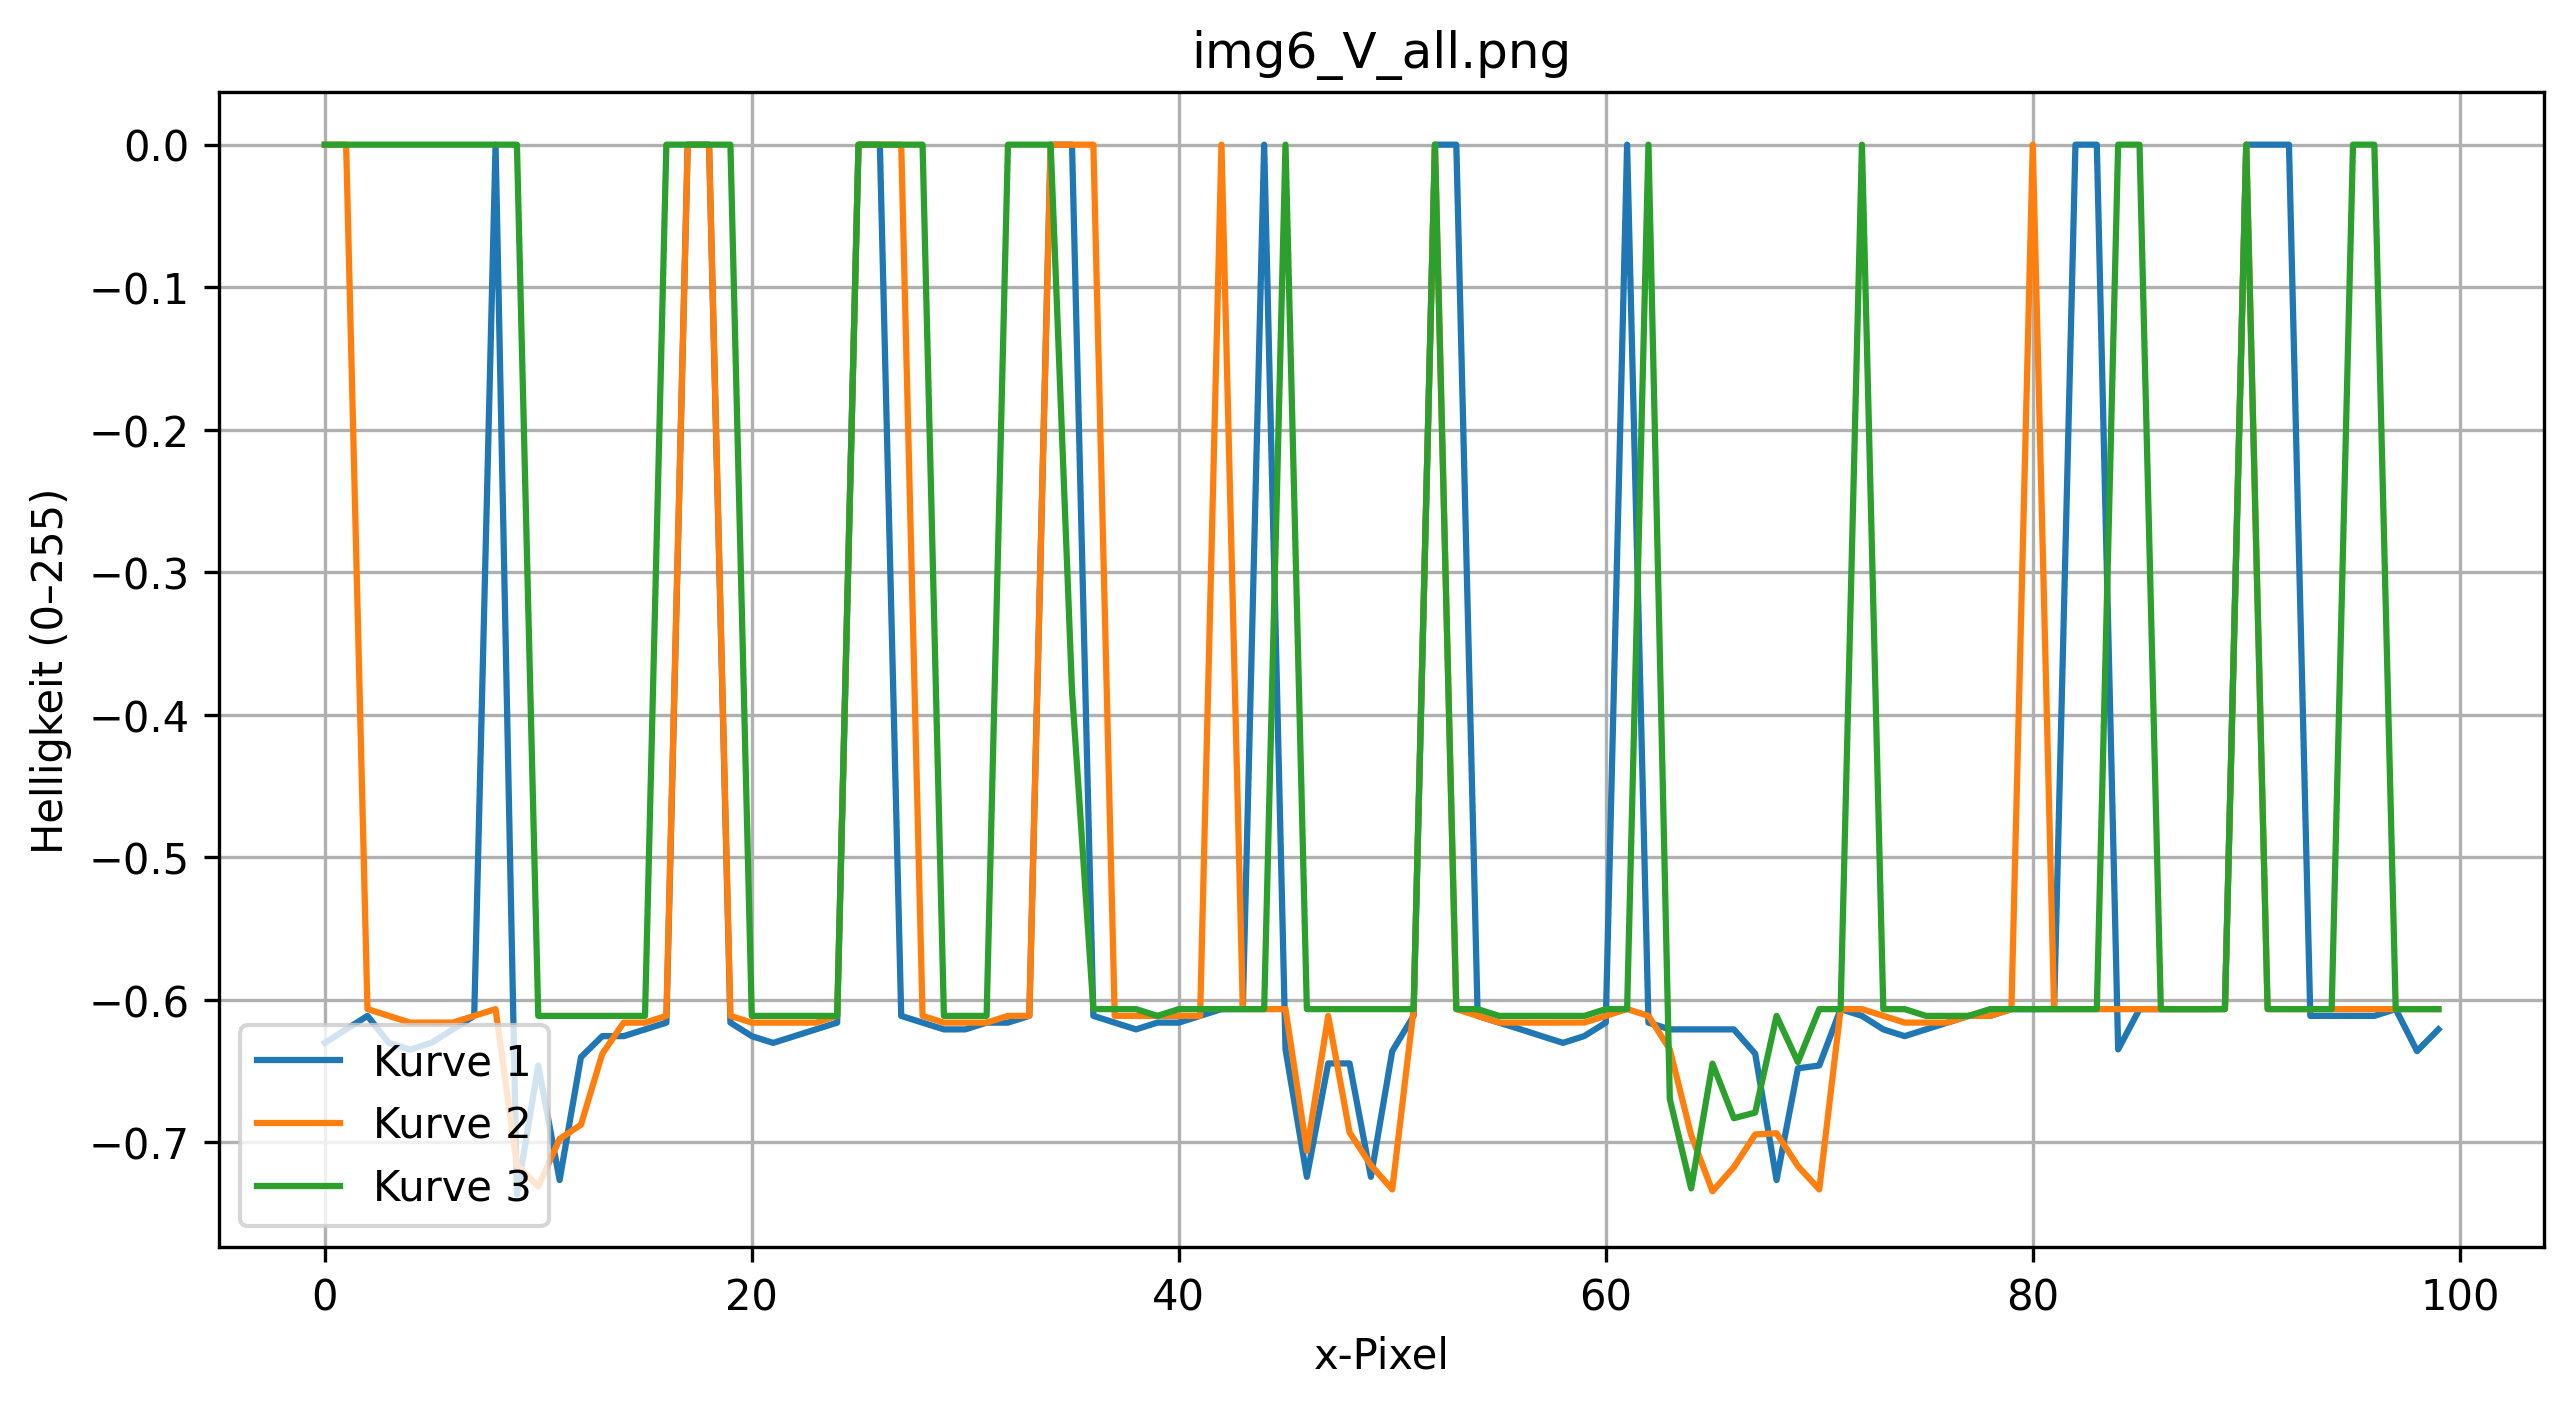
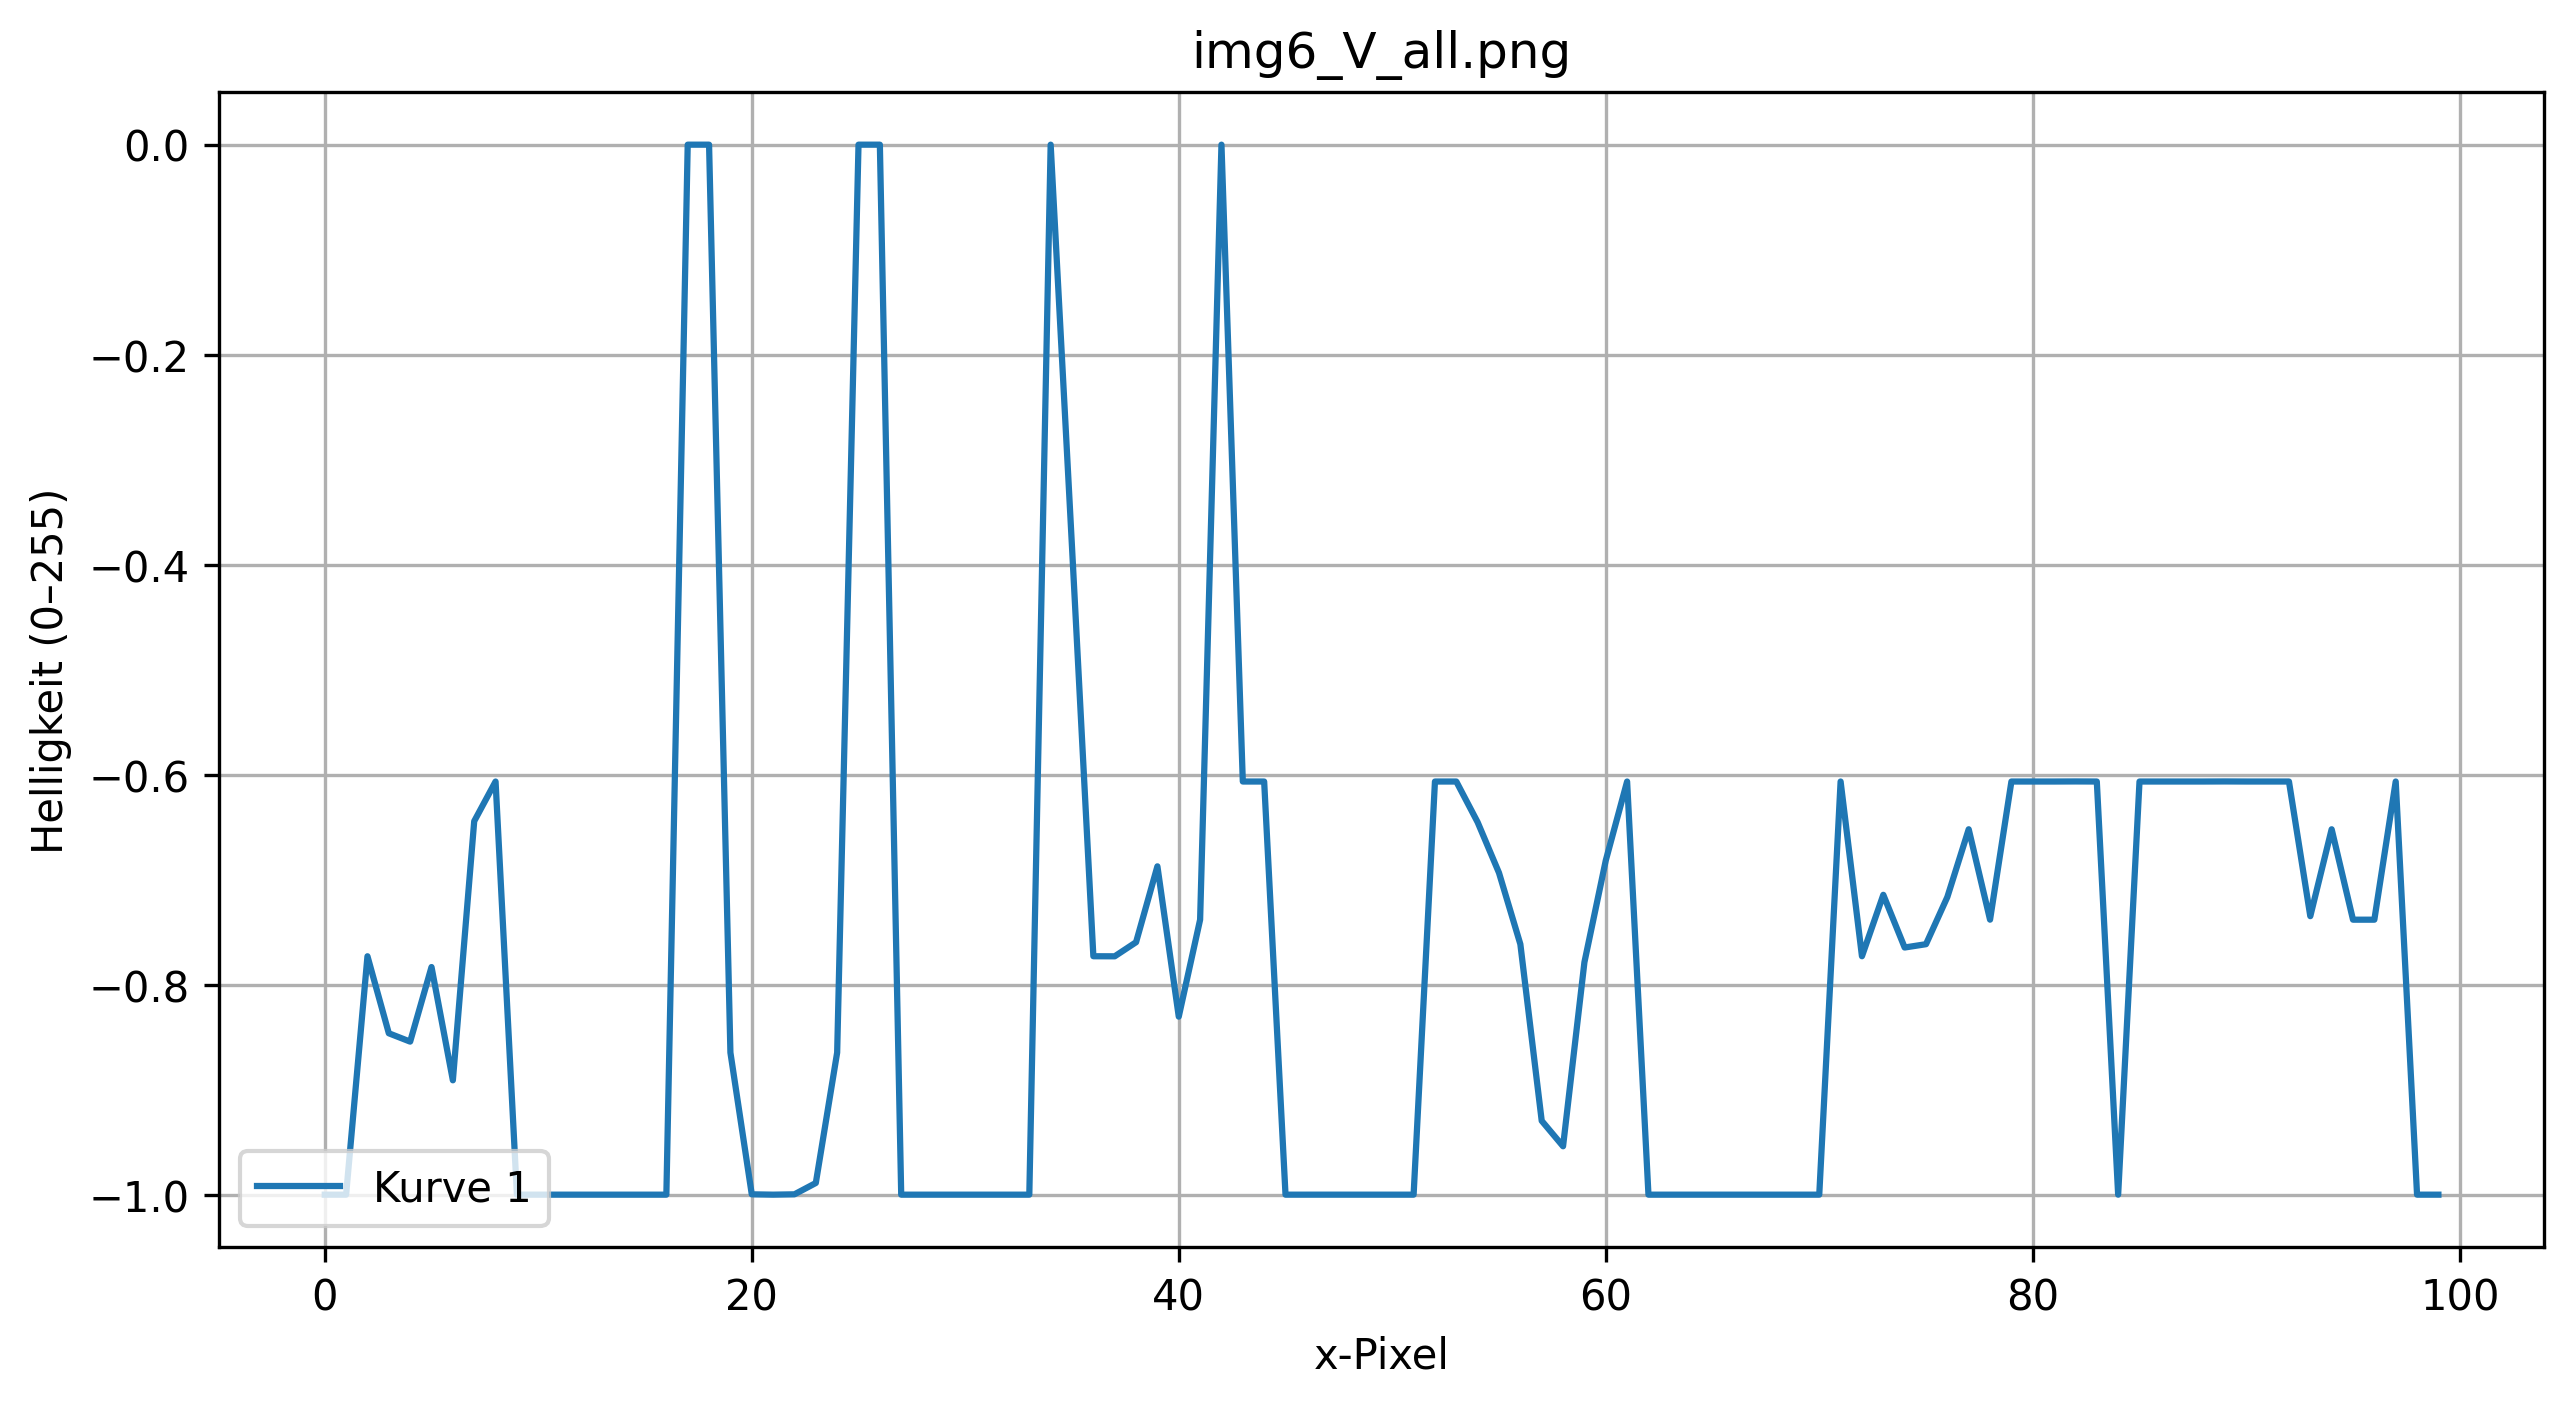
many sigma ableitungen abgeändert

diff --git a/blur_test/stripeDetectionManySigma.py b/blur_test/stripeDetectionManySigma.py
@@ -8,7 +8,7 @@ import os
 import time
 
 test_img_num = 6
-sigmas = [1, 2, 3]
+sigmas = [1, 2, 3, 4]
 save_plot = True
 save_img = True
 one_line = True
@@ -34,6 +34,46 @@ def plot_array(arr, name, multiple):
         Img_line = arr[y_scan, :]
         plt.plot(Img_line)
         plt.savefig(img_path, dpi=300, bbox_inches='tight')
+        plt.close()
+        return Img_line
+
+def plot_array_over_img(arr, name, multiple, img):
+    folder = os.path.dirname(os.path.abspath(__file__))
+    plot_path = os.path.join(folder, "plots/" + name)
+    
+    plt.title(name)
+    plt.xlabel("x-Pixel")
+    plt.ylabel("Helligkeit (0–255)")
+    plt.grid(True)
+    if multiple:
+        y_scan = arr[0].shape[0] // 2
+        I_RGB_line = img[y_scan]
+        plt.figure(figsize=(10,10))
+        I_RGB_stripe = np.stack([I_RGB_line] * 50, axis=0)
+        
+        plt.imshow(I_RGB_stripe, cmap=None)
+        for i in range(len(arr)):
+            plt.plot(arr[i][y_scan, :], label="Kurve " + str(i+1))
+        plt.legend(loc="center left")
+        plt.savefig(plot_path, dpi=300, bbox_inches='tight')
+        plt.close()
+        return arr
+    else:
+        if arr.ndim > 1:
+            y_scan = arr.shape[0] // 2
+        else:
+            y_scan = img.shape[0]//2 
+        I_RGB_line = img[y_scan]
+        plt.figure(figsize=(10,10))
+        I_RGB_stripe = np.stack([I_RGB_line] * 50, axis=0)
+    
+        plt.imshow(I_RGB_stripe, cmap=None)
+        if arr.ndim > 1:
+            Img_line = arr[y_scan, :]
+        else:
+            Img_line = arr
+        plt.plot(Img_line)
+        plt.savefig(plot_path, dpi=300, bbox_inches='tight')
         plt.close()
         return Img_line
 
@@ -77,19 +117,32 @@ def img_blurring(I_GRAY, sigmas):  # Img blurren
 def img_lambda(I_sigmas):       # Lambdas berechnen
     lambdas = []
     count = 0
+    Ixxs = []
+    Iyys = []
+    Ixys = []
     for I_sigma in I_sigmas:
-        Ixx = gaussian_filter(I_sigma, sigma=sigmas[count], order=(2,0))
-        Iyy = gaussian_filter(I_sigma, sigma=sigmas[count], order=(0,2))
+        Iyy = gaussian_filter(I_sigma, sigma=sigmas[count], order=(2,0))
+        Ixx = gaussian_filter(I_sigma, sigma=sigmas[count], order=(0,2))
         Ixy = gaussian_filter(I_sigma, sigma=sigmas[count], order=(1,1))
         count += 1
+        
+        Ixxs.append(Ixx)
+        Iyys.append(Iyy)
+        Ixys.append(Ixy)
 
-        # Eigenwerte der 2x2-Hessian-Matrix:
-        tmp1 = (Ixx + Iyy) / 2.0
-        tmp2 = np.sqrt(((Ixx - Iyy)/2)**2 + (Ixy**2))
-        lambda1 = tmp1 + tmp2
-        lambda2 = tmp1 - tmp2
-        lambdas.append((lambda1, lambda2))
+    plot_array_over_img(Ixxs, "2_Ableitungen", True, I_RGB)
+
+    Ixx = np.maximum.reduce(Ixxs)
+    Iyy = np.maximum.reduce(Iyys)
+    Ixy = np.maximum.reduce(Ixys)
+    # Eigenwerte der 2x2-Hessian-Matrix:
+    tmp1 = (Ixx + Iyy) / 2.0
+    tmp2 = np.sqrt(((Ixx - Iyy)/2)**2 + (Ixy**2))
+    lambda1 = tmp1 + tmp2
+    lambda2 = tmp1 - tmp2
+    lambdas.append((lambda1, lambda2))
     
+    plot_array_over_img(Ixx, "2_Ableitung", False, I_RGB)
     return lambdas
 
 def img_vesselness(lambdas, alpha, beta): # erstellt vesselness map
@@ -147,7 +200,7 @@ def detect_stripes(V_norm): # scannt Veselness map nach streifen ab und gibt koo
 
     # 3 Peaks finden (Streifenmitten)
     # "distance" steuert den minimalen Abstand zwischen Peaks und height die höhe die ein pixel haben muss um ein peak zu sein
-    peaks, props = find_peaks(line_vessel, distance=5, height=0.6)
+    peaks, props = find_peaks(line_vessel, distance=10, height=0.2)
 
     print(f"Gefundene Peaks: {len(peaks)}")
     I_rgb = cv2.cvtColor(I_BGR, cv2.COLOR_BGR2RGB)
@@ -284,7 +337,7 @@ def test_accuracy(colorcombination, test_img):  # testet wie gut die farben erka
     return 100 - (errors/len(colorcombination) * 100)
 
 I_GRAY, I_BGR = read_image(test_img_num)
-I_RGB = cv2.colorChange(I_BGR, cv2.COLOR_BGR2RGB)
+I_RGB = cv2.cvtColor(I_BGR, cv2.COLOR_BGR2RGB)
 I_sigmas = img_blurring(I_GRAY, sigmas)
 
 lambdas = img_lambda(I_sigmas)
@@ -299,10 +352,11 @@ peaks, props, y_scan, I_rgb = detect_stripes(V_norm)
 if save_img:
     mark_stripes()
 
-
+'''
 if one_line:
     colorcombination = colorline_detection(I_rgb, y_scan)
 else:
     colorcombination = [[]]*V_norm.shape[0]
     for y in range(V_norm.shape[0]):
         colorcombination[y] = colorline_detection(I_rgb, y)
+'''
